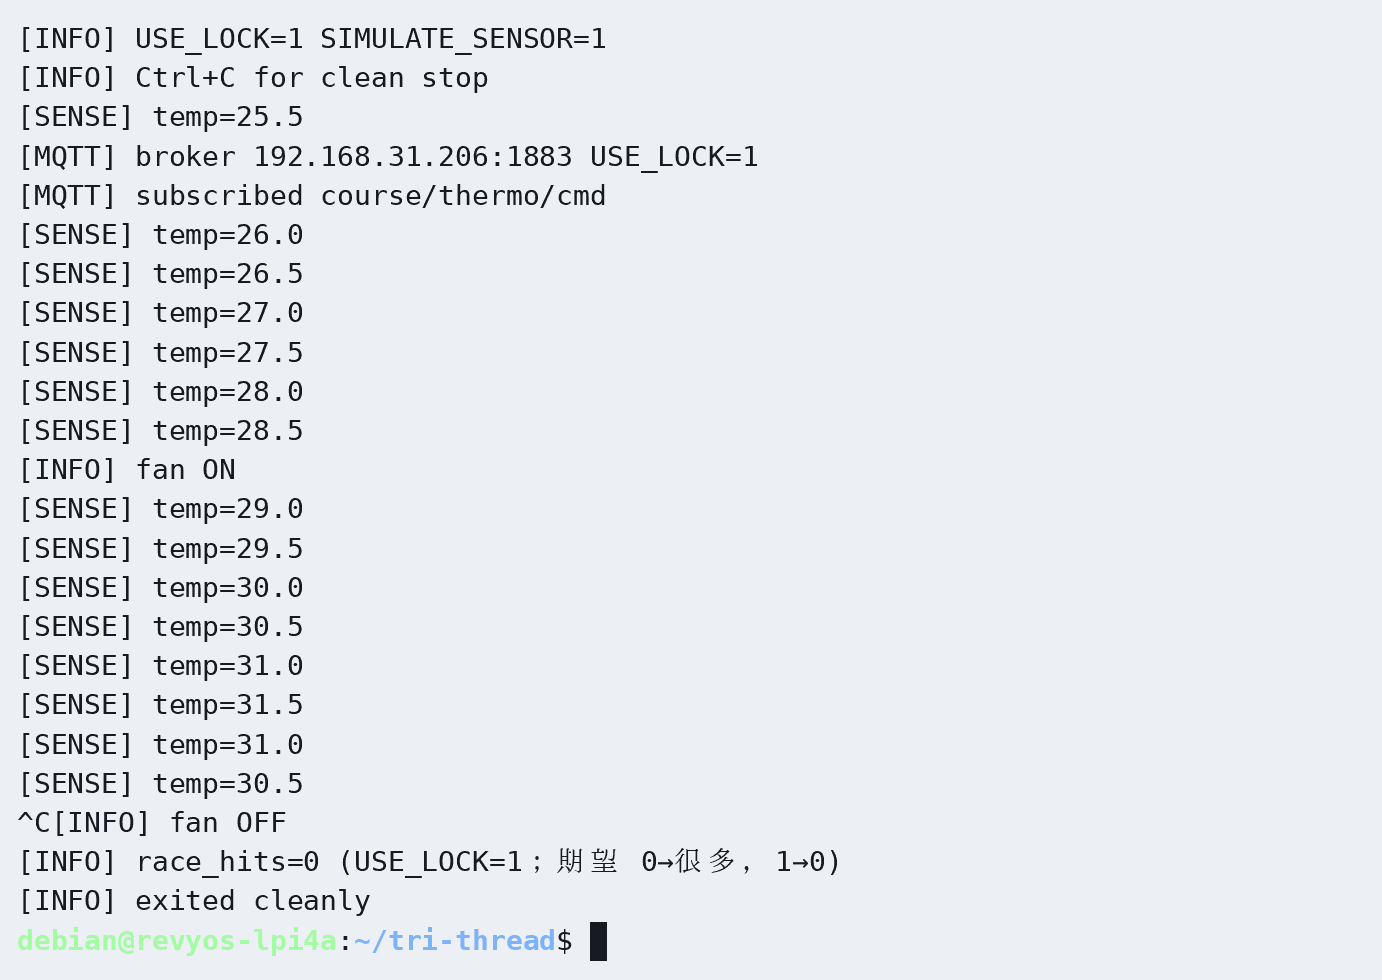
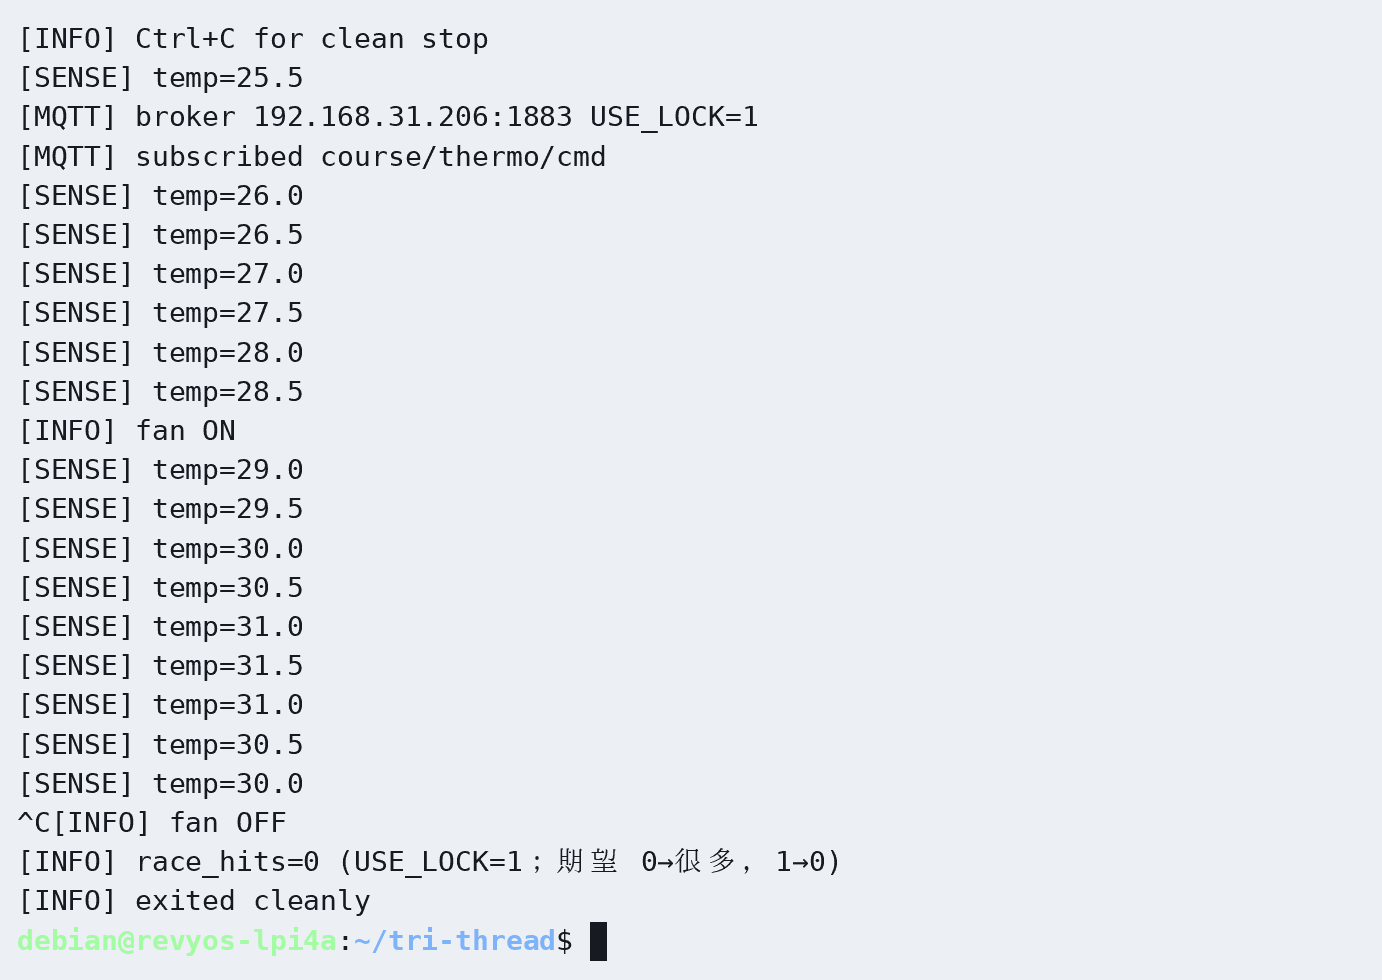
ch05/ch06: 板上补齐审阅要求的证据（录像/快照/TSan），tri-thread 增加 USE_LOCK 开关
- ch06 录像：race-demo 增录 TSan 报告；snapshot-lock 去掉 head 截断、完整跑完打印 race_hits；
  tri-thread 保留 lock0/lock1 对照并含 race_hits=0 与 exited cleanly
- ch06 lab：补 TSan 截图、实验二加锁/无锁截图、MQTT 强制开关实机转录（fan off 不被自动控制覆盖）；
  TSan 主机 ASLR 规避补 setarch 方案
- ch05 录像：实验一/二重录（新契约输出）；实验三改为「主机侧发命令 + 板端响应 + 报文抓取」
- tri-thread Makefile 支持 make USE_LOCK=1（原来只能手改源码）

diff --git a/chapters/ch06/lab.html b/chapters/ch06/lab.html
@@ -144,7 +144,7 @@
 <pre><span class="p">$</span> cd chapters/ch06/code/race-demo
 <span class="p">$</span> make && ./race-demo
 expect=400000  got=215946  RACE(lost updates)</pre>
-<p>主机跑 TSan 前若启动失败，先执行 <code>sudo sysctl vm.mmap_rnd_bits=28</code>（板端能直接跑则可跳过）。</p>
+<p>主机跑 TSan 若报 <code>FATAL: ThreadSanitizer: unexpected memory mapping</code>，用下面任一种方式规避 ASLR：<code>sudo sysctl -w vm.mmap_rnd_bits=28</code>，或直接用 <code>setarch $(uname -m) -R ./race-demo</code>（无需 root；板端可直接跑，不用处理）。</p>
 <pre><span class="p">$</span> make tsan && ./race-demo
 WARNING: ThreadSanitizer: data race
   Read of size 8 ... by thread T2:
@@ -156,6 +156,10 @@ SUMMARY: ThreadSanitizer: data race .../main.c:24 in bump_racy</pre>
 <figure>
   <img src="assets/recordings/race-demo-board.gif" alt="板上 race-demo：expect 与 got 不一致，标出 RACE">
   <figcaption>板端证据（SSH → race-demo）：最终计数偏小并标出 <code>RACE</code></figcaption>
+</figure>
+<figure>
+  <img src="assets/recordings/race-demo-board-tsan-report.png" alt="板上 make tsan 后 race-demo 的 ThreadSanitizer 报告">
+  <figcaption>TSan 证据：<code>make tsan</code> 后 <code>./race-demo</code> 给出 <code>WARNING: ThreadSanitizer: data race</code>，指出 <code>bump_racy</code> 里读/写同一全局计数的两行</figcaption>
 </figure>
 </section>
 
@@ -173,6 +177,14 @@ $ cd chapters/ch06/code/snapshot-lock      # 板上：cd ~/snapshot-lock</span>
 <figure>
   <img src="assets/recordings/snapshot-lock-board.gif" alt="板上 snapshot-lock：脚手架现 RACE，sol 后 race_hits=0">
   <figcaption>板端证据（SSH → snapshot-lock）：无锁 <code>[RACE]</code>；加锁版 <code>race_hits=0</code></figcaption>
+</figure>
+<figure>
+  <img src="assets/recordings/snapshot-lock-board-sol-clean.png" alt="加锁版跑完打印 race_hits=0">
+  <figcaption>加锁版快照：跑完打印 <code>race_hits=0</code></figcaption>
+</figure>
+<figure>
+  <img src="assets/recordings/snapshot-lock-board-scaffold-race.png" alt="无锁脚手架完整跑完打印最终 race_hits">
+  <figcaption>无锁快照：脚手架<strong>完整跑完</strong>（不再截断输出），末行给出最终 <code>race_hits</code></figcaption>
 </figure>
 </section>
 
@@ -196,7 +208,7 @@ $ cd chapters/ch06/code/snapshot-lock      # 板上：cd ~/snapshot-lock</span>
 <span class="c"># 或：make CROSS_COMPILE=riscv64-ruyisdk-linux-gnu- && scp …</span></pre>
   </li>
   <li>
-    <strong>MQTT / 干净停</strong>：主机 <code>mosquitto_pub … -t course/thermo/cmd -m 'set high 30'</code>，板端见 <code>[MQTT] cmd payload=...</code>；Ctrl+C 后风扇关并 <code>exited cleanly</code>。
+    <strong>MQTT / 干净停</strong>：主机 <code>mosquitto_pub … -t course/thermo/cmd -m 'status'</code>（还有 <code>fan on</code> / <code>fan off</code> / <code>fan auto</code>、<code>set high 30</code>），板端见 <code>[MQTT] cmd payload=...</code>；Ctrl+C 后风扇关并 <code>exited cleanly</code>。<strong>强制开关不会被自动控制覆盖</strong>：下发 <code>fan off</code> 后即使温度高于上限，状态仍是 <code>fan=off mode=force-off</code>。
   </li>
 </ol>
 <p>实机摘录（<code>USE_LOCK=1</code>）：</p>
@@ -206,6 +218,16 @@ $ cd chapters/ch06/code/snapshot-lock      # 板上：cd ~/snapshot-lock</span>
 [MQTT] cmd payload=set high 30
 [INFO] race_hits=0 (USE_LOCK=1；期望 0→很多，1→0)
 [INFO] exited cleanly</pre>
+<p>MQTT 命令与并发的实机转录（<code>USE_LOCK=1</code>，主机侧发命令）。注意 <code>fan off</code> 那次温度 28.5 °C 已高于上限 28，自动控制<strong>没有</strong>把它翻回 ON——读、判、写在同一把锁内完成：</p>
+<pre>[MQTT] cmd payload=fan on
+[INFO] fan ON
+[MQTT] status temp=30.5 hum=55.0 fan=on mode=force-on high=28.0 low=26.0
+[MQTT] cmd payload=fan off
+[INFO] fan OFF
+[MQTT] status temp=28.5 hum=55.0 fan=off mode=force-off high=28.0 low=26.0
+[MQTT] cmd payload=fan auto
+[MQTT] fan mode auto
+[MQTT] status temp=25.0 hum=55.0 fan=off mode=auto high=27.0 low=26.0</pre>
 <figure>
   <img src="assets/recordings/tri-thread-board.gif" alt="板上 tri-thread：USE_LOCK 0 现 RACE，USE_LOCK 1 后 race_hits=0">
   <figcaption>板端证据（SSH → tri-thread）：无锁出现 <code>[RACE]</code>；加锁后 <code>race_hits=0</code> 并干净退出</figcaption>

diff --git a/chapters/ch05/lab.html b/chapters/ch05/lab.html
@@ -287,6 +287,14 @@ IO1_4  →  限流电阻  →  LED 长脚（正极）
   <figcaption>图 6　板端证据（SSH → mqtt-led）：连 Broker → 订阅 → <code>on</code>/<code>off</code> 发布 status；非法 <code>ON</code> 被拒</figcaption>
 </figure>
 <figure>
+  <img src="assets/recordings/mqtt-led-board-host-publish.png" alt="主机侧用仓库 MQTT 工具发 led on/off 并读回状态">
+  <figcaption>图 7　主机侧收发：主机用仓库的 MQTT 工具发 <code>led on</code> / <code>led off</code>，读回状态 <code>on</code> / <code>off</code>；非法 <code>ON</code> 被拒（同时验证 <code>setLed</code> 参数校验）</figcaption>
+</figure>
+<figure>
+  <img src="assets/recordings/mqtt-led-board-captured-packets.png" alt="板端 mosquitto_sub 抓到的实际报文">
+  <figcaption>图 8　实际报文：板端 <code>mosquitto_sub -t 'course/led/#' -v</code> 抓到经过 Broker 的 <code>course/led/cmd</code> 与 <code>course/led/status</code> 报文（板端未装 tcpdump，用订阅侧抓包代替）</figcaption>
+</figure>
+<figure>
   <img src="assets/recordings/mqtt-led-board-led-on.png" alt="mqtt-led 收到 on 后 published status=on" style="max-width:min(100%,820px);width:auto;height:auto;border:1px solid var(--line-light);display:block;margin:16px 0 8px">
   <figcaption>同一次联调快照：<code>published course/led/status = on</code></figcaption>
 </figure>
